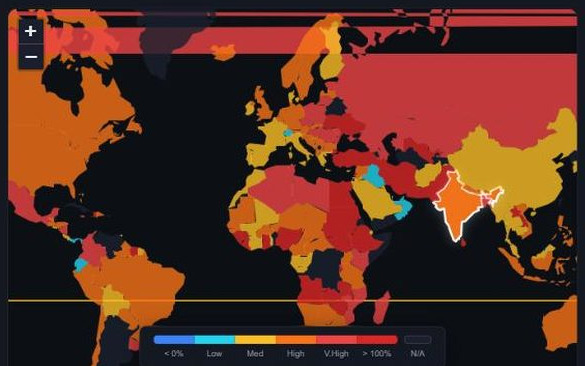
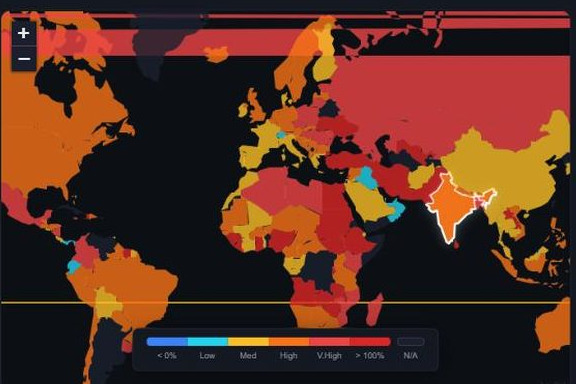
Recrop the Cost of Living and West Bengal artefacts
Both crops were 1.60 against a 3:2 frame, so object-fit: cover trimmed them
a second time and cut the cost-of-living colour legend. Recropped to exactly
3:2. The West Bengal tile now shows the state overview rather than the
near-empty GSDP chart.

Changed region(s): [[0.0, 0.0, 1.0, 1.0], [0.2812, 0.0902, 0.4375, 0.1803], [0.7188, 0.1202, 0.8125, 0.1503]]

diff --git a/index.html b/index.html
@@ -382,7 +382,7 @@
           </div>
         </div>
         <figure class="entry-figure shot">
-          <img src="assets/westbengal-gsdp.jpg" width="601" height="376" loading="lazy" alt="A chart from the West Bengal dashboard showing gross state domestic product doubling between 2015-16 and 2024-25.">
+          <img src="assets/westbengal-overview.jpg" width="1057" height="705" loading="lazy" alt="The West Bengal dashboard's overview: headline findings on state GDP, tourism and Nobel laureates, a GSDP trend chart, and a summary row of state figures.">
         </figure>
       </a>
     </li>
@@ -403,7 +403,7 @@
           </div>
         </div>
         <figure class="entry-figure shot">
-          <img src="assets/cost-of-living-map.jpg" width="585" height="366" loading="lazy" alt="A world choropleth from the Cost of Living Tracker, shading every country by its ten-year price change.">
+          <img src="assets/cost-of-living-map.jpg" width="576" height="384" loading="lazy" alt="A world choropleth from the Cost of Living Tracker, shading every country by its ten-year price change, with the colour scale below it.">
         </figure>
       </a>
     </li>

diff --git a/CHANGELOG.md b/CHANGELOG.md
@@ -9,6 +9,7 @@
 - **Screenshots art-directed**: Each source screenshot cropped to one meaningful region (`kolkata-map`, `westbengal-gsdp`, `cost-of-living-map`) and the RemindMe device cut out of its marketing page onto a theme-aware ground
 - **StockPicker**: The "no public build yet" placeholder replaced with a typographic table of the six pipeline stages and their figures
 - **About page**: Rebuilt on the same system — a hairline record of roles with years, titles and outcomes in three columns
+- **West Bengal artefact**: The GSDP-chart-only crop was ~60% empty navy. Replaced with the state overview — headline findings, the trend chart and the summary figure row; `westbengal-gsdp.jpg` renamed to `westbengal-overview.jpg`
 
 ### Removed
 - **Decorative furniture**: Scroll-progress bar, hide-on-scroll nav, all entrance/reveal animations, the philosophical pull-quote section, the three-up stat strip, the "scroll to explore" affordance, the pill button, and the bordered project cards
@@ -18,6 +19,7 @@
 ### Fixed
 - **Image aspect ratios**: Intrinsic `height` attributes were overriding `aspect-ratio`, so every project frame rendered at its source height instead of one shared 3:2 ratio
 - **Copy**: "Tobaco" and "one of top 10 banks" in the TCS entry
+- **Off-ratio project crops**: The Cost of Living and West Bengal crops were 1.60 against a 3:2 frame, so `object-fit: cover` trimmed them a second time and cut the cost-of-living colour legend. Both recropped to exactly 3:2, so nothing is cropped in the browser
 
 ## [2026-08-07]
 
